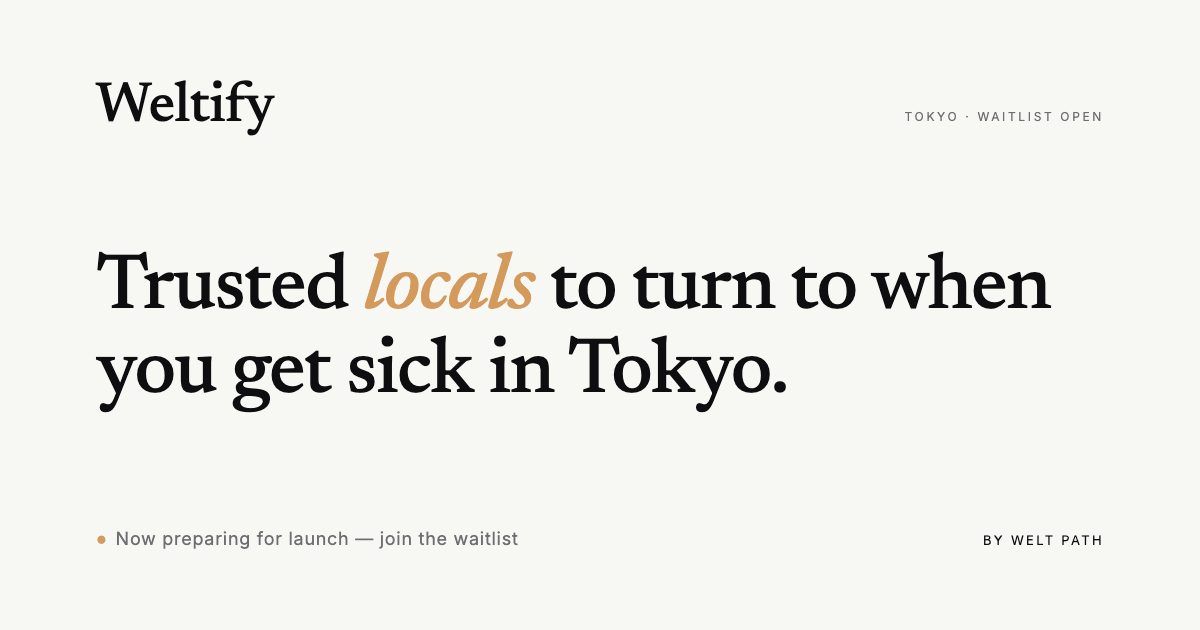
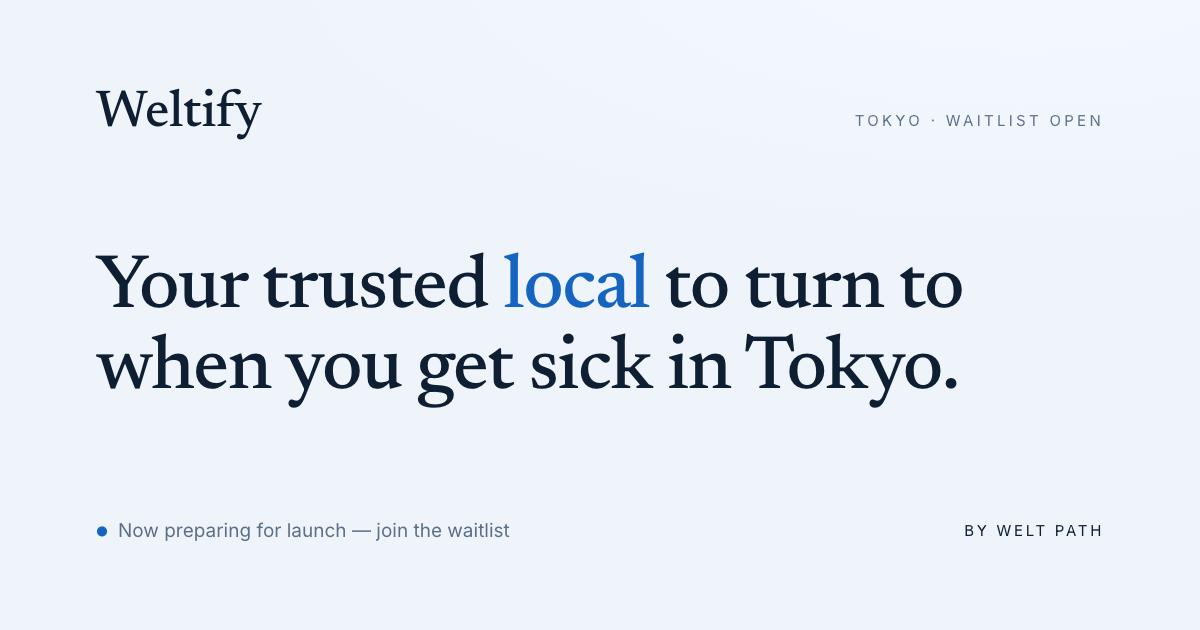
Update OG image: remove italic from "local"

diff --git a/og-image-source.html b/og-image-source.html
@@ -1,0 +1,47 @@
+<!doctype html>
+<html lang="en">
+<head>
+<meta charset="utf-8">
+<link rel="preconnect" href="https://fonts.googleapis.com">
+<link rel="preconnect" href="https://fonts.gstatic.com" crossorigin>
+<link href="https://fonts.googleapis.com/css2?family=Newsreader:ital,wght@0,400;0,500;1,500&family=Inter:wght@400;500;600&display=swap" rel="stylesheet">
+<style>
+  * { box-sizing: border-box; margin: 0; padding: 0; }
+  html, body { width: 1200px; height: 630px; }
+  .card {
+    width: 1200px; height: 630px;
+    background: radial-gradient(120% 80% at 85% -5%, #F4F9FF, #EEF4FA 55%);
+    color: #0E1F33;
+    font-family: 'Inter', system-ui, sans-serif;
+    padding: 88px 96px;
+    display: flex; flex-direction: column; justify-content: space-between;
+    -webkit-font-smoothing: antialiased;
+  }
+  .top { display: flex; justify-content: space-between; align-items: baseline; }
+  .logo { font-family: 'Newsreader', Georgia, serif; font-weight: 500; font-size: 52px; letter-spacing: -0.01em; }
+  .tag { font-size: 15px; letter-spacing: 0.22em; text-transform: uppercase; color: #5B7088; }
+  .headline {
+    font-family: 'Newsreader', Georgia, serif; font-weight: 500;
+    font-size: 76px; line-height: 1.06; letter-spacing: -0.02em; max-width: 1010px;
+  }
+  .headline em { font-style: normal; color: #1565C0; }
+  .bottom { display: flex; justify-content: space-between; align-items: baseline; }
+  .note { font-size: 19px; color: #5B7088; display: flex; align-items: center; gap: 10px; }
+  .note .dot { color: #1565C0; font-size: 13px; }
+  .by { font-size: 15px; letter-spacing: 0.18em; text-transform: uppercase; color: #0E1F33; }
+</style>
+</head>
+<body>
+  <div class="card">
+    <div class="top">
+      <div class="logo">Weltify</div>
+      <div class="tag">Tokyo · Waitlist Open</div>
+    </div>
+    <h1 class="headline">Your trusted <em>local</em> to turn to when you get sick in Tokyo.</h1>
+    <div class="bottom">
+      <div class="note"><span class="dot">●</span>Now preparing for launch — join the waitlist</div>
+      <div class="by">By Welt Path</div>
+    </div>
+  </div>
+</body>
+</html>